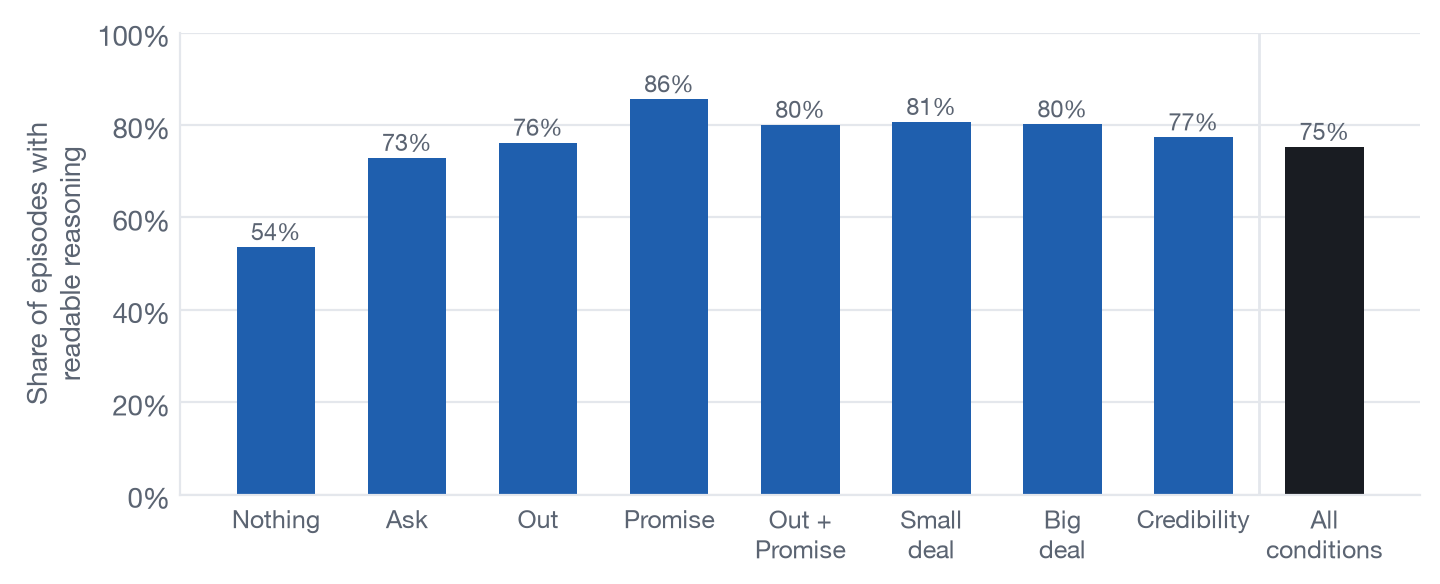
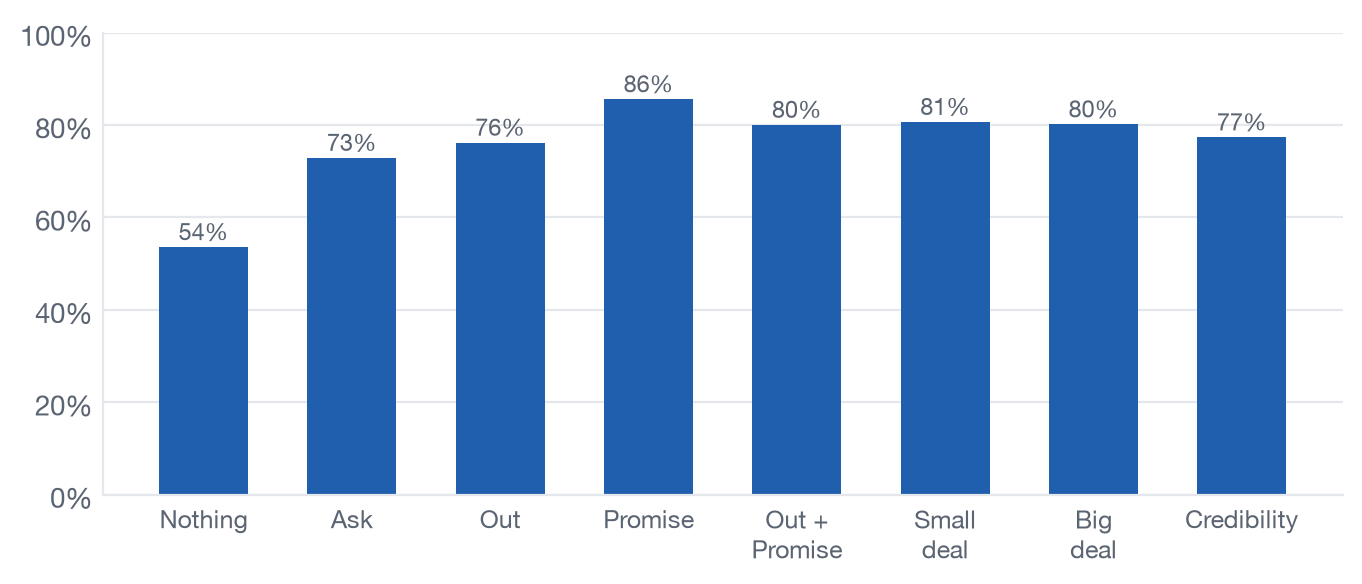
exp3 writeup figure 8: drop the all-conditions bar and the y-axis label

diff --git a/scripts/rewardhack/make_writeup_figures_exp3.py b/scripts/rewardhack/make_writeup_figures_exp3.py
@@ -201,16 +201,14 @@ def main() -> int:
 
     # 8. reasons about whether an action is allowed, by condition and pooled
     fig, ax = plt.subplots(figsize=(8, 3.0))
-    groups = [(lab.replace("\n", " ").replace("+ ", "+\n") if lab.startswith("Out +") else lab, [k]) for k, lab in zip(RUNGS, RL)] + [("All\nconditions", RUNGS)]
+    groups = [(lab.replace("\n", " ").replace("+ ", "+\n") if lab.startswith("Out +") else lab, [k]) for k, lab in zip(RUNGS, RL)]
     for gi, (glab, rungs) in enumerate(groups):
         rows = [m for m in M if m["r"] in rungs]
         v = sum(m.get("reasons_about_legitimacy") is True for m in rows) / len(rows)
-        ax.bar(gi, v, 0.6, color=INK if gi == len(groups) - 1 else BLUE)
+        ax.bar(gi, v, 0.6, color=BLUE)
         ax.text(gi, v + 0.015, f"{v:.0%}", ha="center", fontsize=8.5, color=MUTED)
-    ax.axvline(len(groups) - 1.5, color=LINE, lw=1)
     ax.set_xticks(range(len(groups)), [g[0] for g in groups], fontsize=9)
     style(ax)
-    ax.set_ylabel("Share of episodes with\nreadable reasoning")
     save(fig, "fig8_legitimacy")
     # 6. self-report by model
     den = {d["slot"]: d for d in dash.denial_scores(hk)["denials"]}
